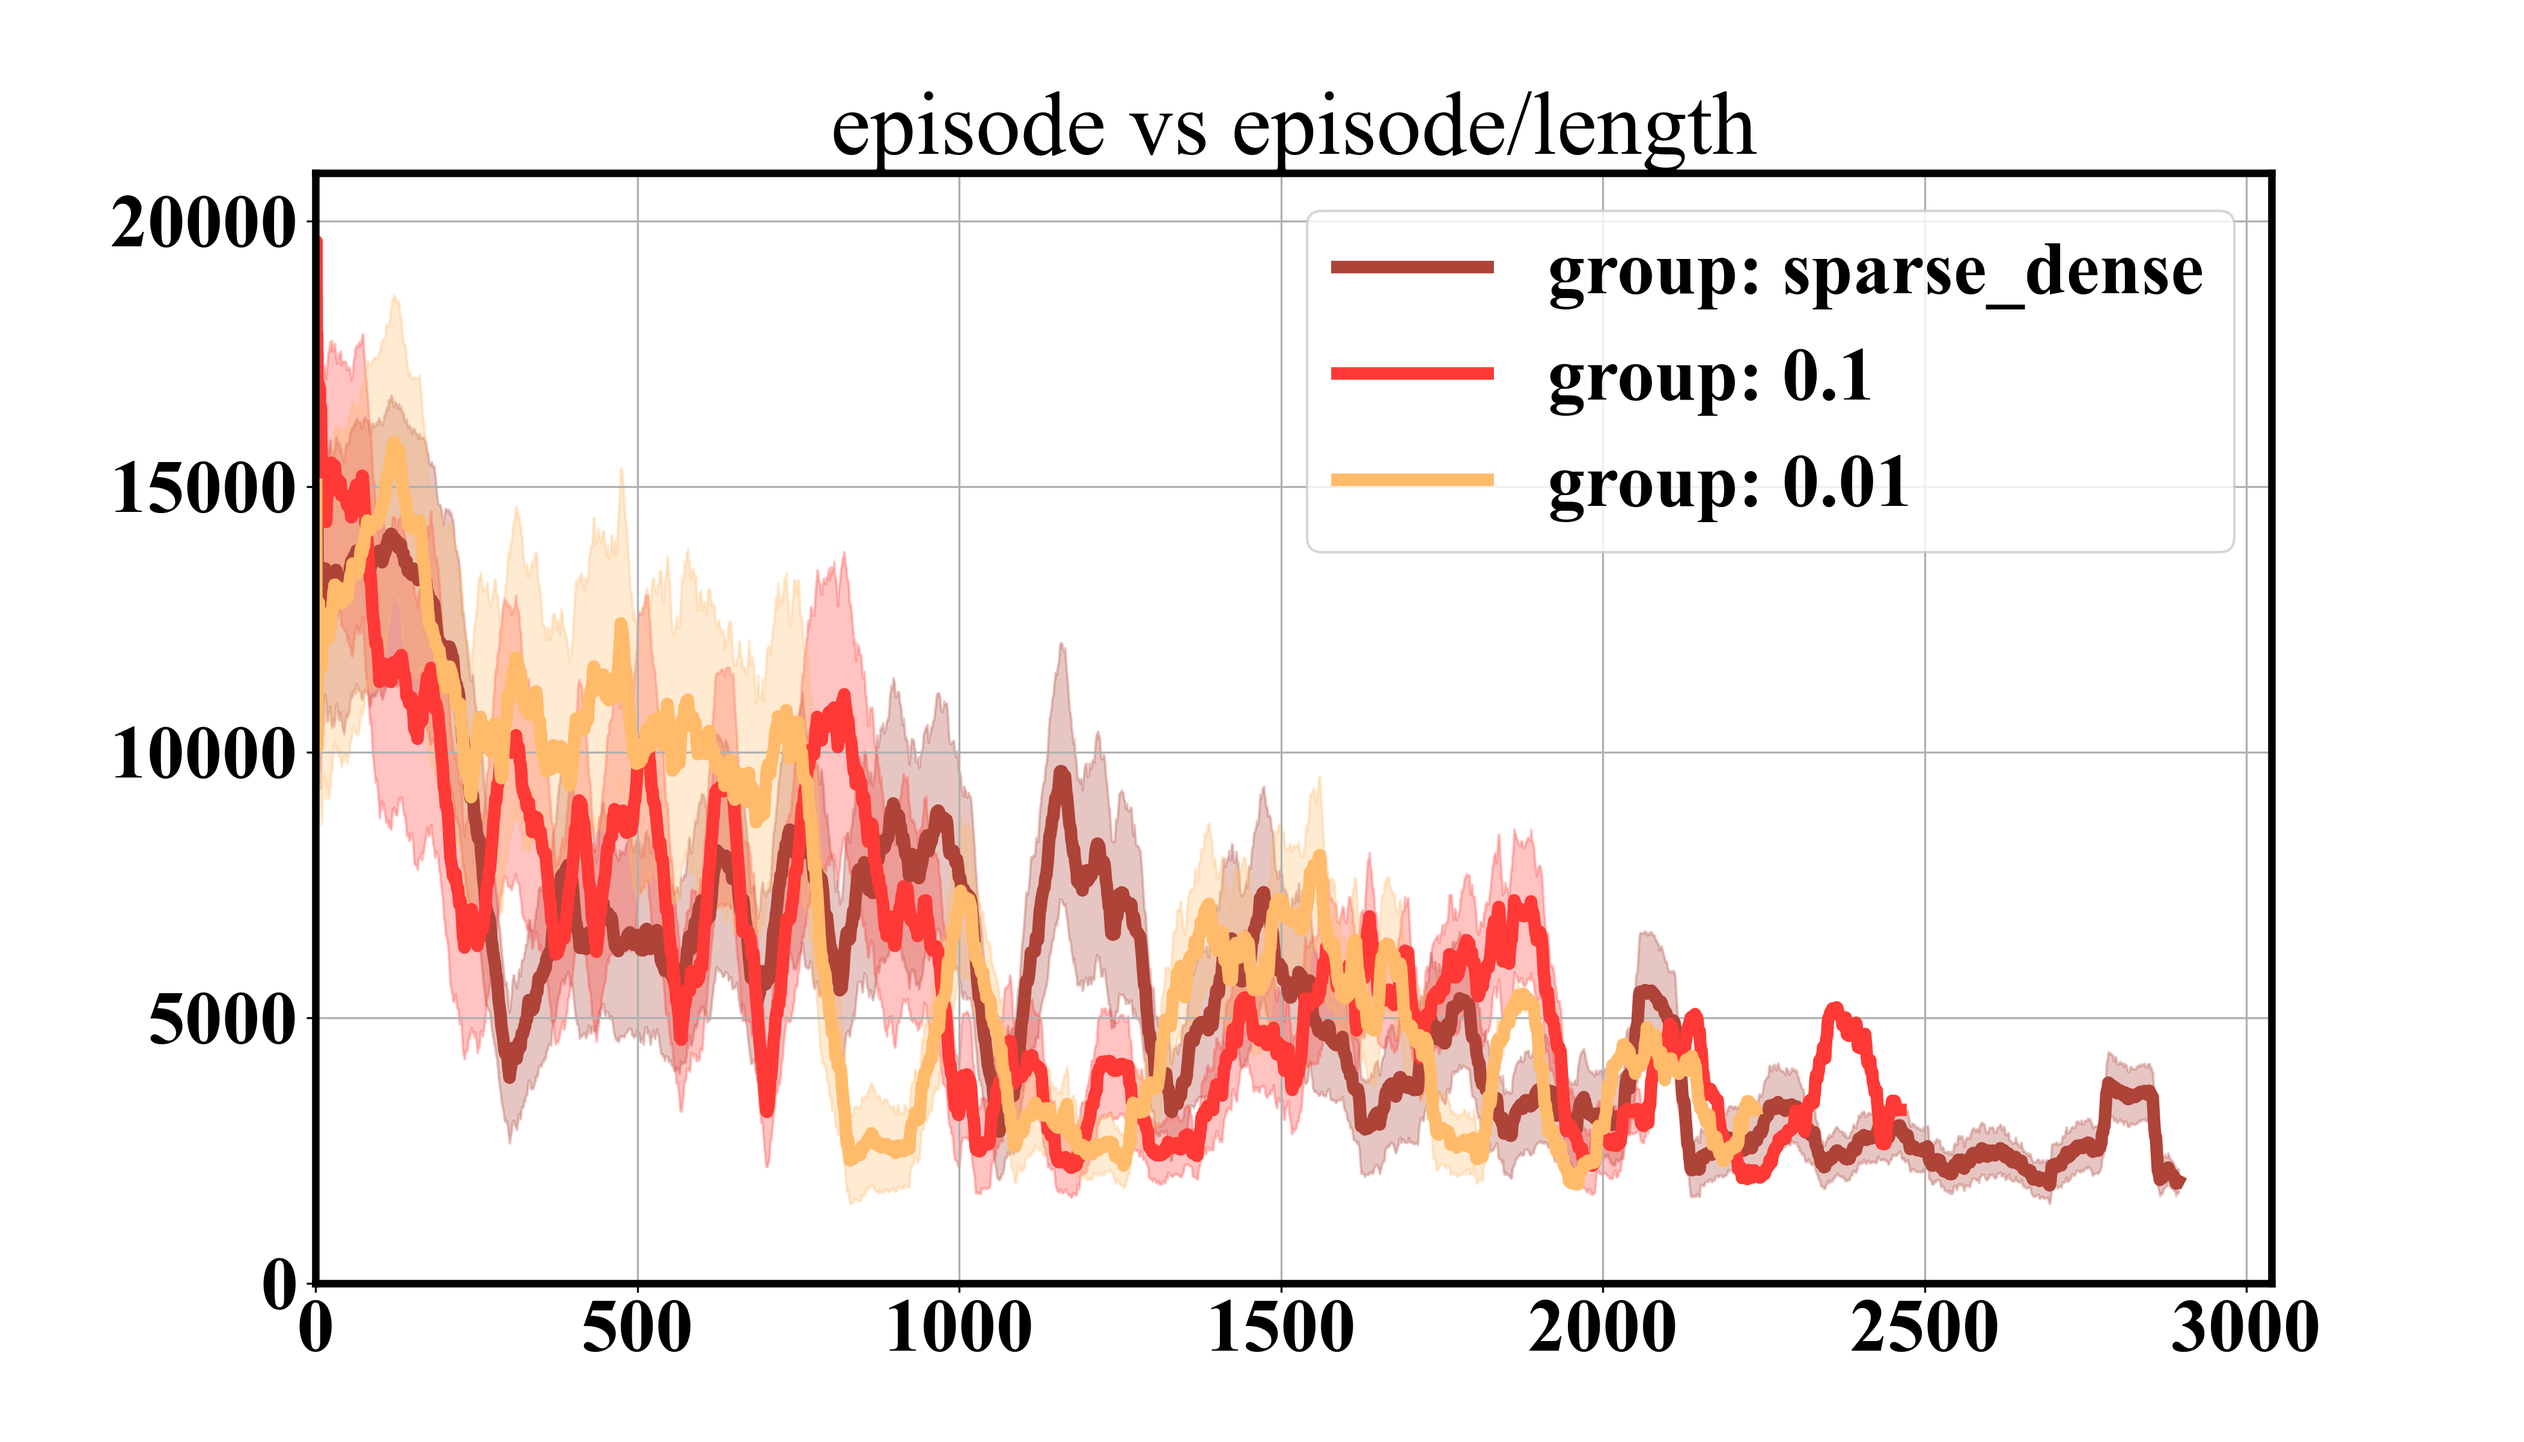
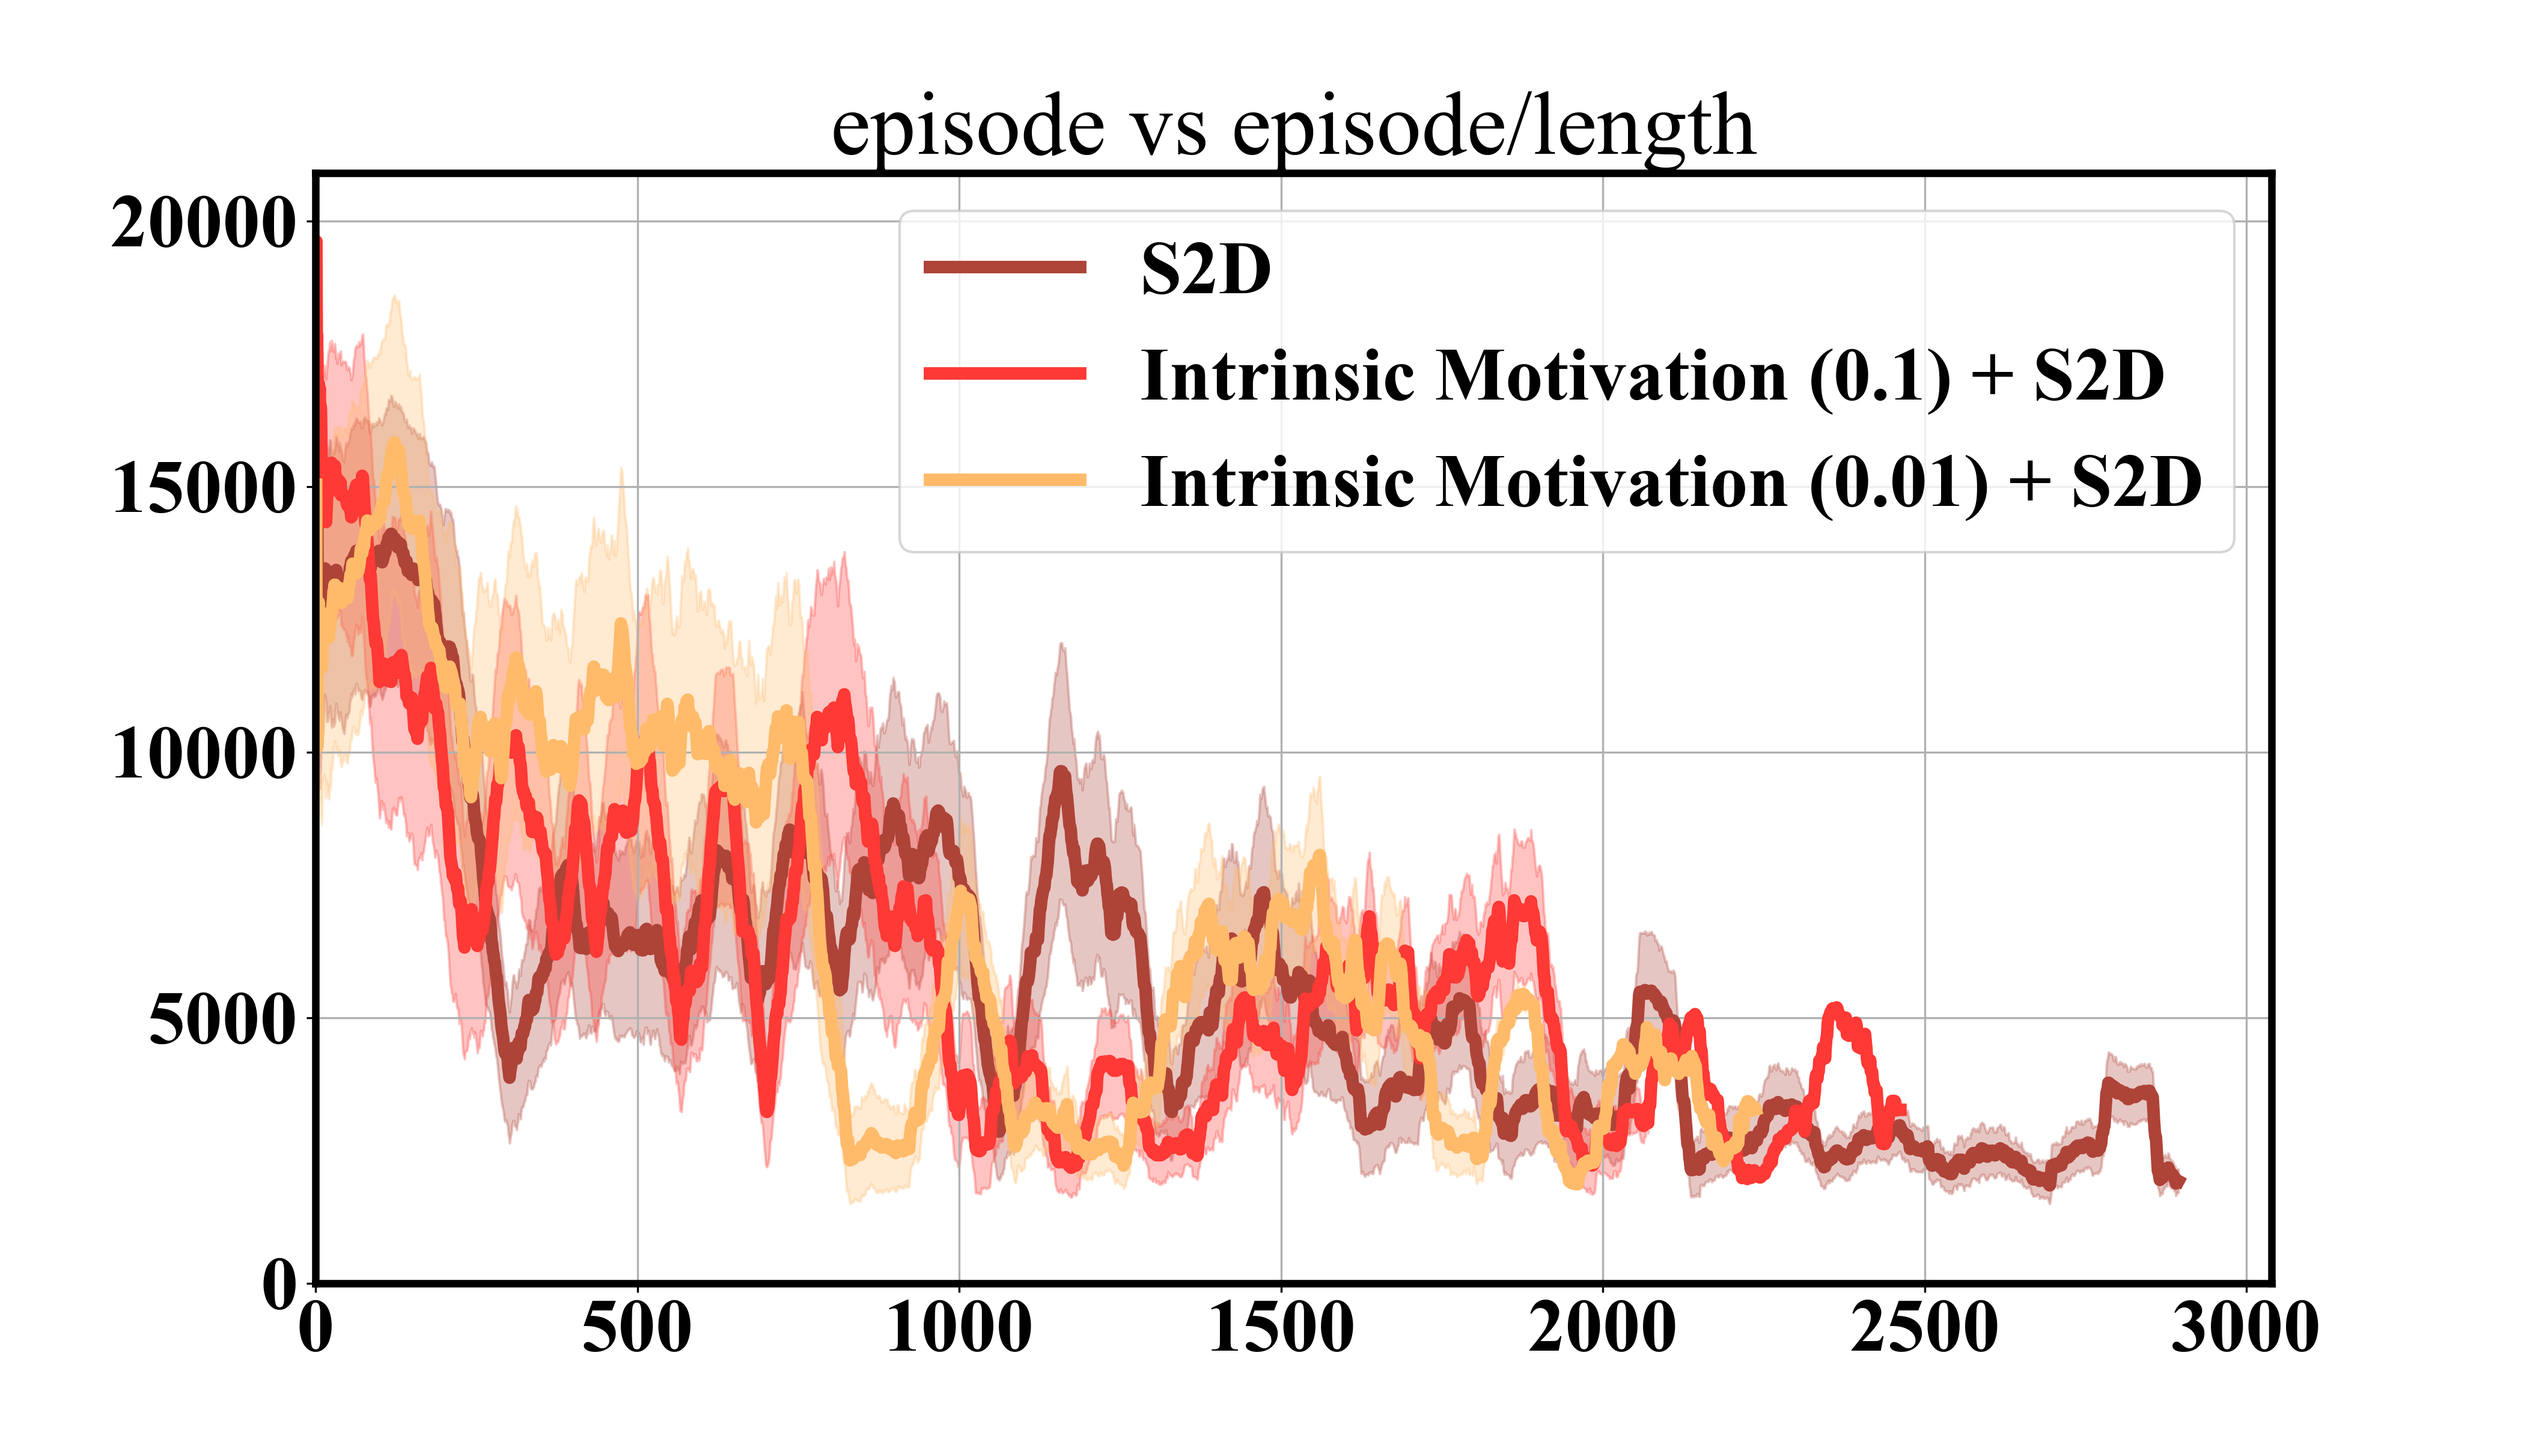
:recycle: rename groups

Changed region(s): [[0.3431, 0.1562, 0.8733, 0.2812], [0.3431, 0.3125, 0.8733, 0.375], [0.3743, 0.1562, 0.5926, 0.2188]]

diff --git a/post_processing/december/draw_intrinsic_experiments.py b/post_processing/december/draw_intrinsic_experiments.py
@@ -77,8 +77,10 @@ def plot_groups_intrinsics(axis_x_name, axis_y_name, groups, groups_name, window
         # Determine color based on the group
         if "0.1" in group_name:
             color = "#FF3935"  # 밝은 빨강
+            label = "Intrinsic Motivation (0.1) + S2D"
         elif "0.01" in group_name:
             color = "#FFBB6A"  # 밝은 초록
+            label = "Intrinsic Motivation (0.01) + S2D"
         else:
             raise ValueError(f"Unknown group: {group_name}")
 
@@ -94,7 +96,7 @@ def plot_groups_intrinsics(axis_x_name, axis_y_name, groups, groups_name, window
         plt.plot(
             avg_data[axis_x_name],
             avg_data[axis_y_name],
-            label=f"group: {group_name}",
+            label=label,
             linewidth=5.0,
             color=color,
         )

diff --git a/post_processing/december/draw_figures_entropy.py b/post_processing/december/draw_figures_entropy.py
@@ -170,7 +170,7 @@ def save_entropy_figure(axis_x_name, axis_y_name, groups_name, figure_dir="./fig
         y_max = 1000
     if "success_rate" in axis_y_name:
         x_max = 10000000  # 5000000
-        y_min = 0.4
+        y_min = 0.3
     else:
         x_max = None
     plt.ylim(bottom=y_min)  # , top=y_max

diff --git a/post_processing/december/draw_normal_experiments.py b/post_processing/december/draw_normal_experiments.py
@@ -161,7 +161,7 @@ def plot_impl_normal_experiments(
         plt.plot(
             avg_data[axis_x_name],
             avg_data[axis_y_name],
-            label=f"group: {group_name}",
+            label=f"S2D",
             linewidth=5.0,
             color=color,
         )
